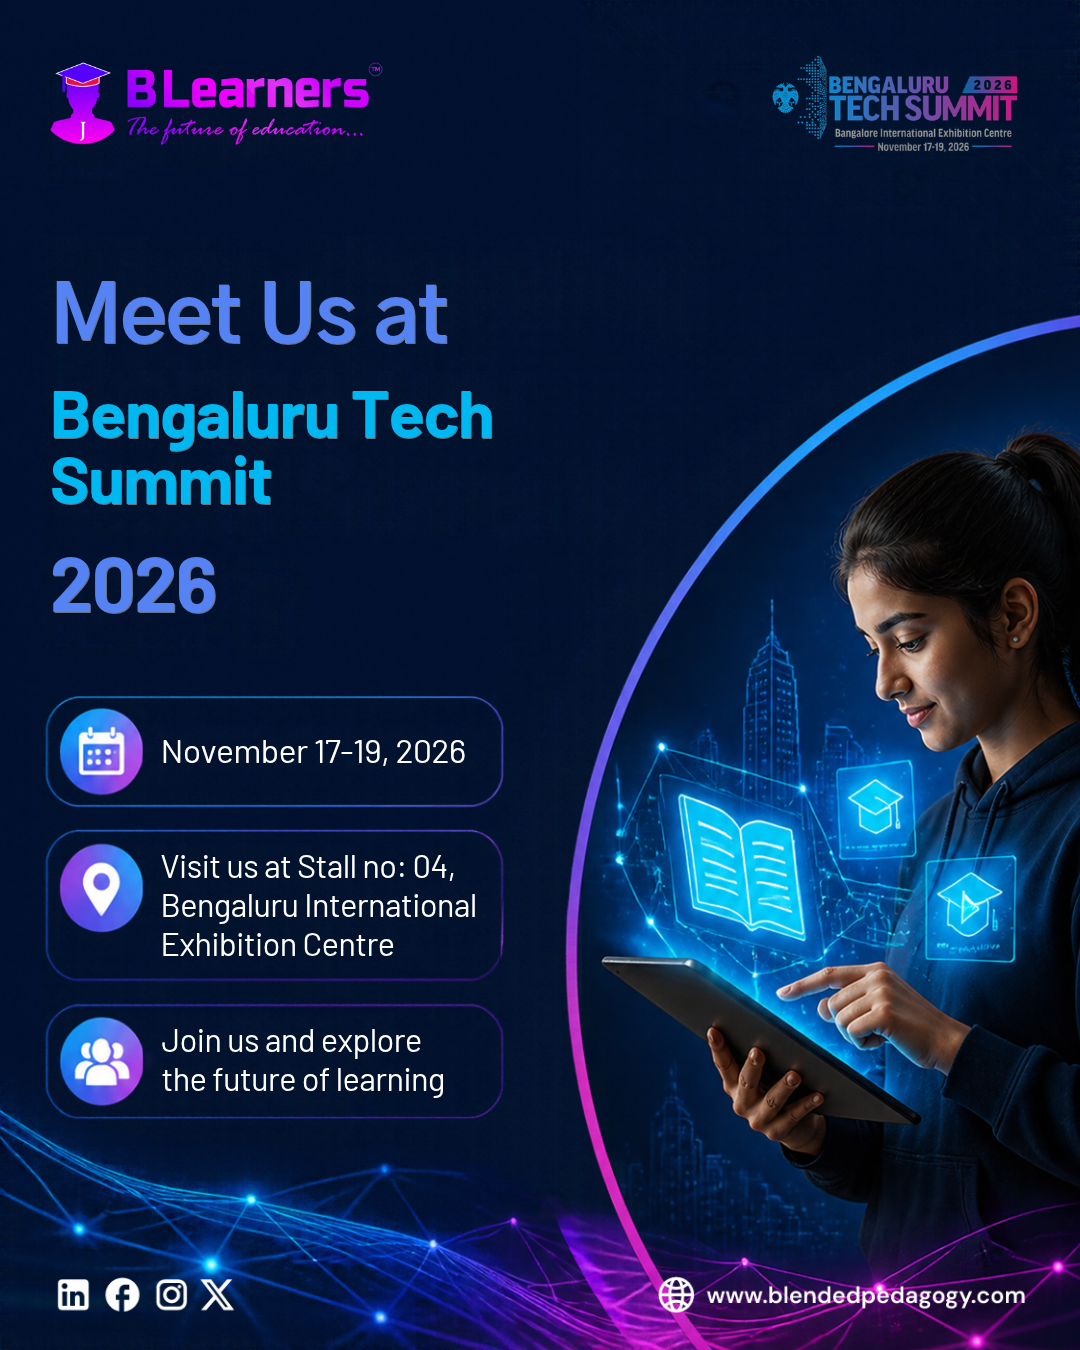
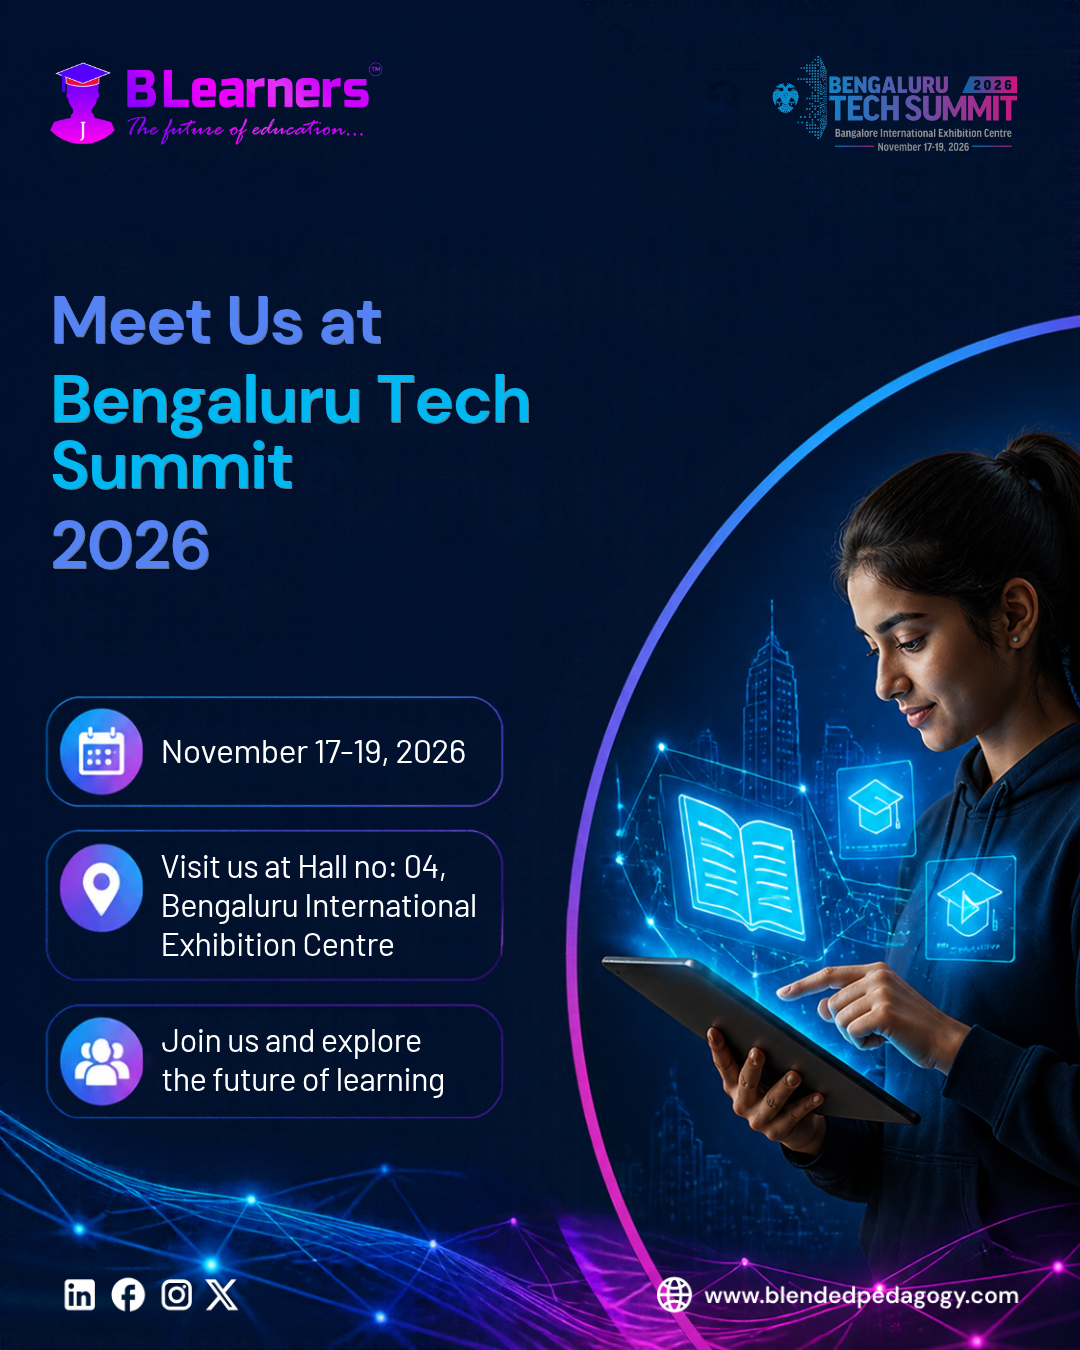
register and poster fix

diff --git a/src/components/sections/RegisterSection.jsx b/src/components/sections/RegisterSection.jsx
@@ -143,12 +143,17 @@ export default function RegisterSection() {
 
     setStatus("loading");
     try {
+      // Send `role: "Others"` + `customRole: <typed text>` when the user picks
+      // "Others" (backend expects this shape). For preset roles we only send
+      // `role`. Existing preset behaviour is unchanged.
+      const isOthers = form.role === "Others";
       await registerInterest({
         fullName: form.fullName.trim(),
         email: form.email.trim(),
         phone: form.phone.trim(),
         institution: form.institution.trim(),
-        role: form.role === "Others" ? customRole.trim() : form.role,
+        role: isOthers ? "Others" : form.role,
+        customRole: isOthers ? customRole.trim() : undefined,
         place: form.place.trim(),
       });
       setStatus("success");
